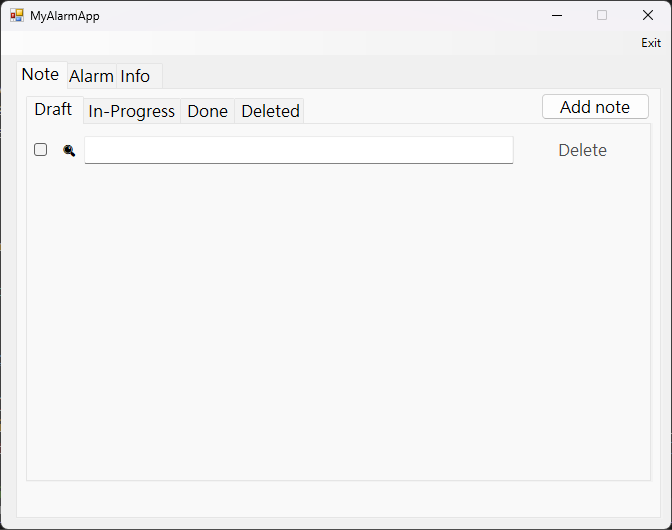
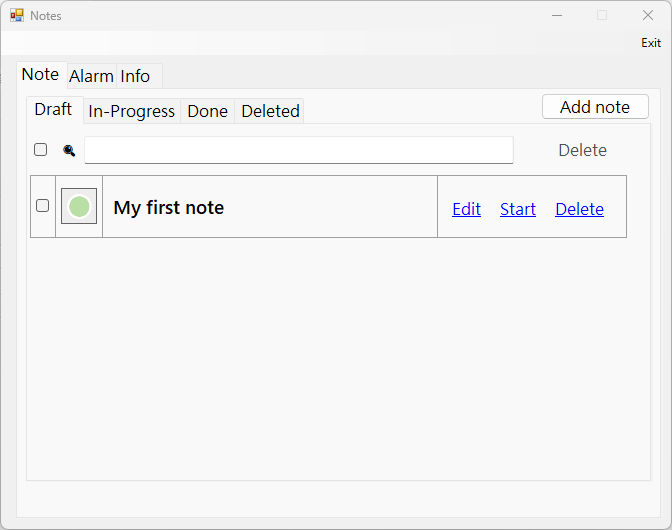
Updated App title

diff --git a/NotesApp/Forms/Form1.Designer.cs b/NotesApp/Forms/Form1.Designer.cs
@@ -571,7 +571,7 @@
             this.MinimumSize = new System.Drawing.Size(535, 455);
             this.Name = "Form1";
             this.StartPosition = System.Windows.Forms.FormStartPosition.CenterScreen;
-            this.Text = "MyAlarmApp";
+            this.Text = "Notes";
             this.FormClosing += new System.Windows.Forms.FormClosingEventHandler(this.Form1_FormClosing);
             this.Resize += new System.EventHandler(this.Form1_Resize);
             this.tabControl1.ResumeLayout(false);
